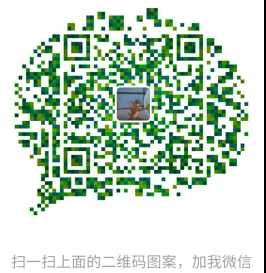
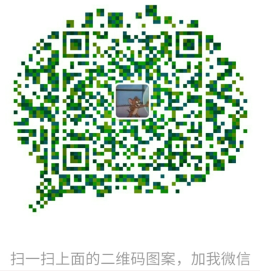
modify weixin style

diff --git a/static/css/style.css b/static/css/style.css
@@ -170,11 +170,10 @@ progress::-moz-progress-value {
 }
 
 .weixin{
-    margin-top: 20px;
+    margin-right: 60px;
     background-color: #e0eaf0;   
     position: relative;
-    padding-top: 40px;
-    padding-bottom: 40px;
+    padding: 10px;
     text-align: center;
 }
 
